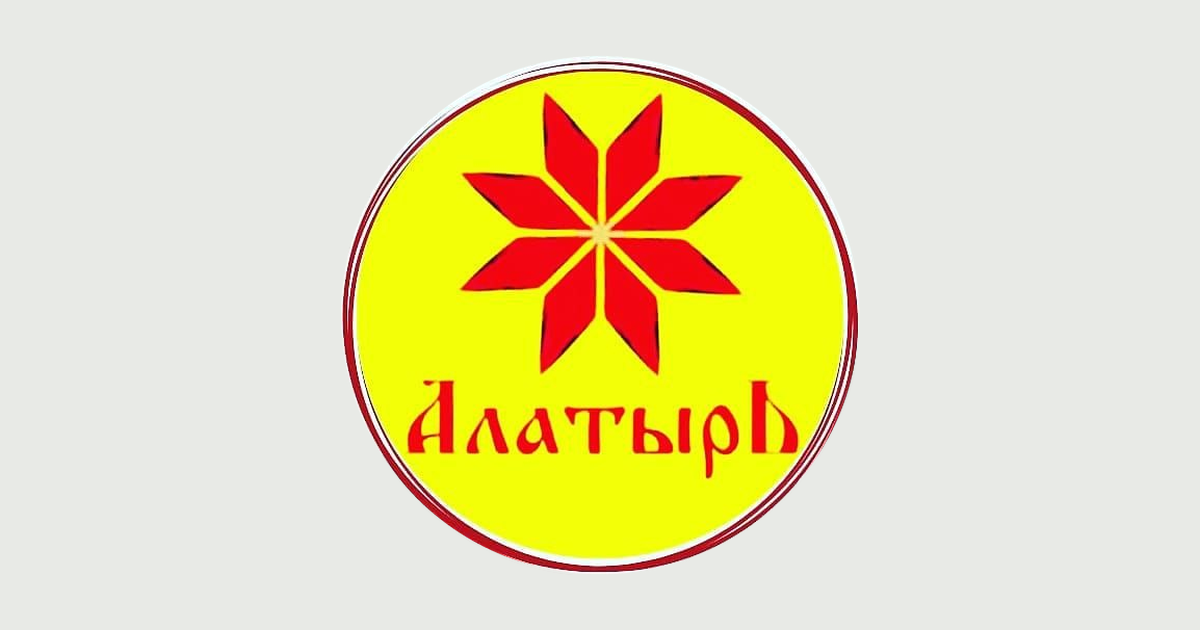
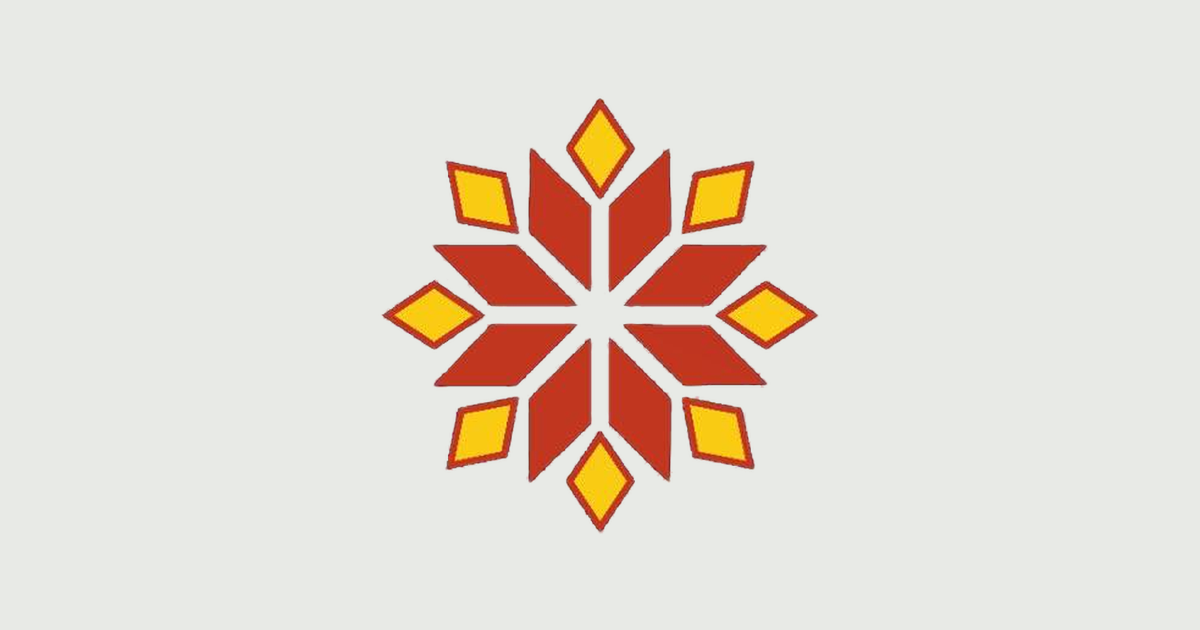
Новый значок (звезда) вместо круглого, фраза в манифесте

Changed region(s): [[0.2775, 0.0905, 0.74, 0.9349]]

diff --git a/index.html b/index.html
@@ -67,7 +67,7 @@
 </div></div>
 
 <section class="story" aria-label="О компании">
-  <p class="story__text" id="manifest">В русских сказках Алатырь это камень в центре мира, на нём всё держится. Мебель держится на том же: на точном замере, крепком корпусе и честной сборке. Проекты у нас долгие, и мы ведём их до конца.</p>
+  <p class="story__text" id="manifest">В русских сказках Алатырь это камень в центре мира, на нём всё держится. Мебель держится на том же: на точном замере, крепком корпусе и честной сборке. Каждый проект мы доводим до конца.</p>
   <div class="story__stone" aria-hidden="true"><b>15</b><span>лет в мебели</span></div>
 </section>
 
